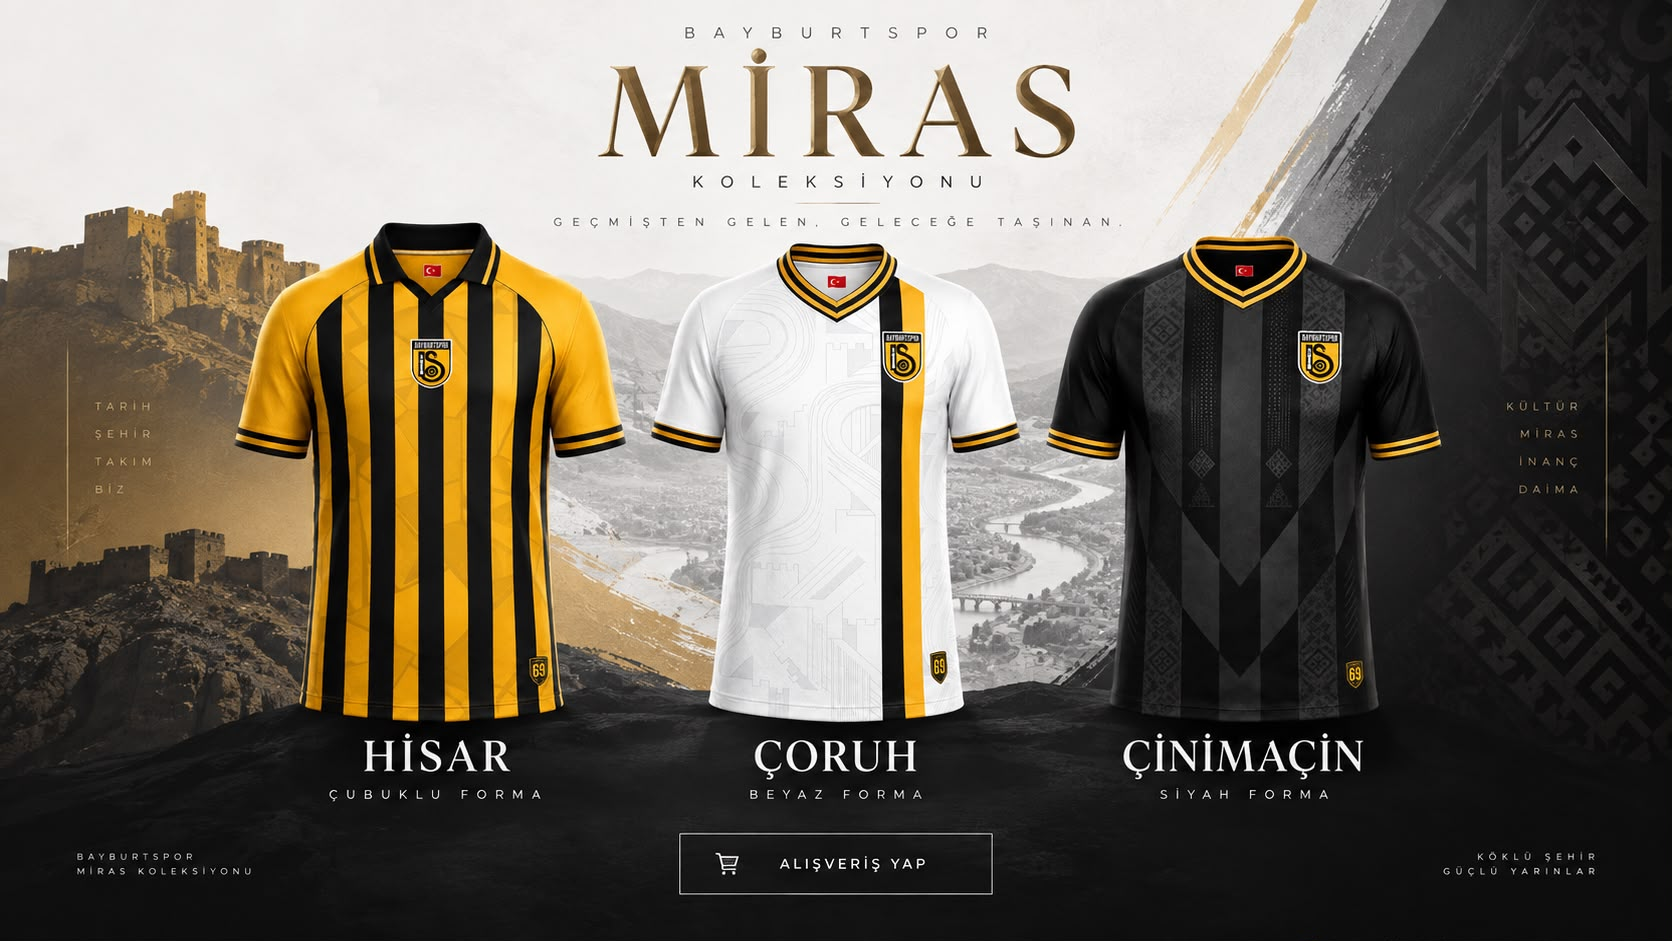
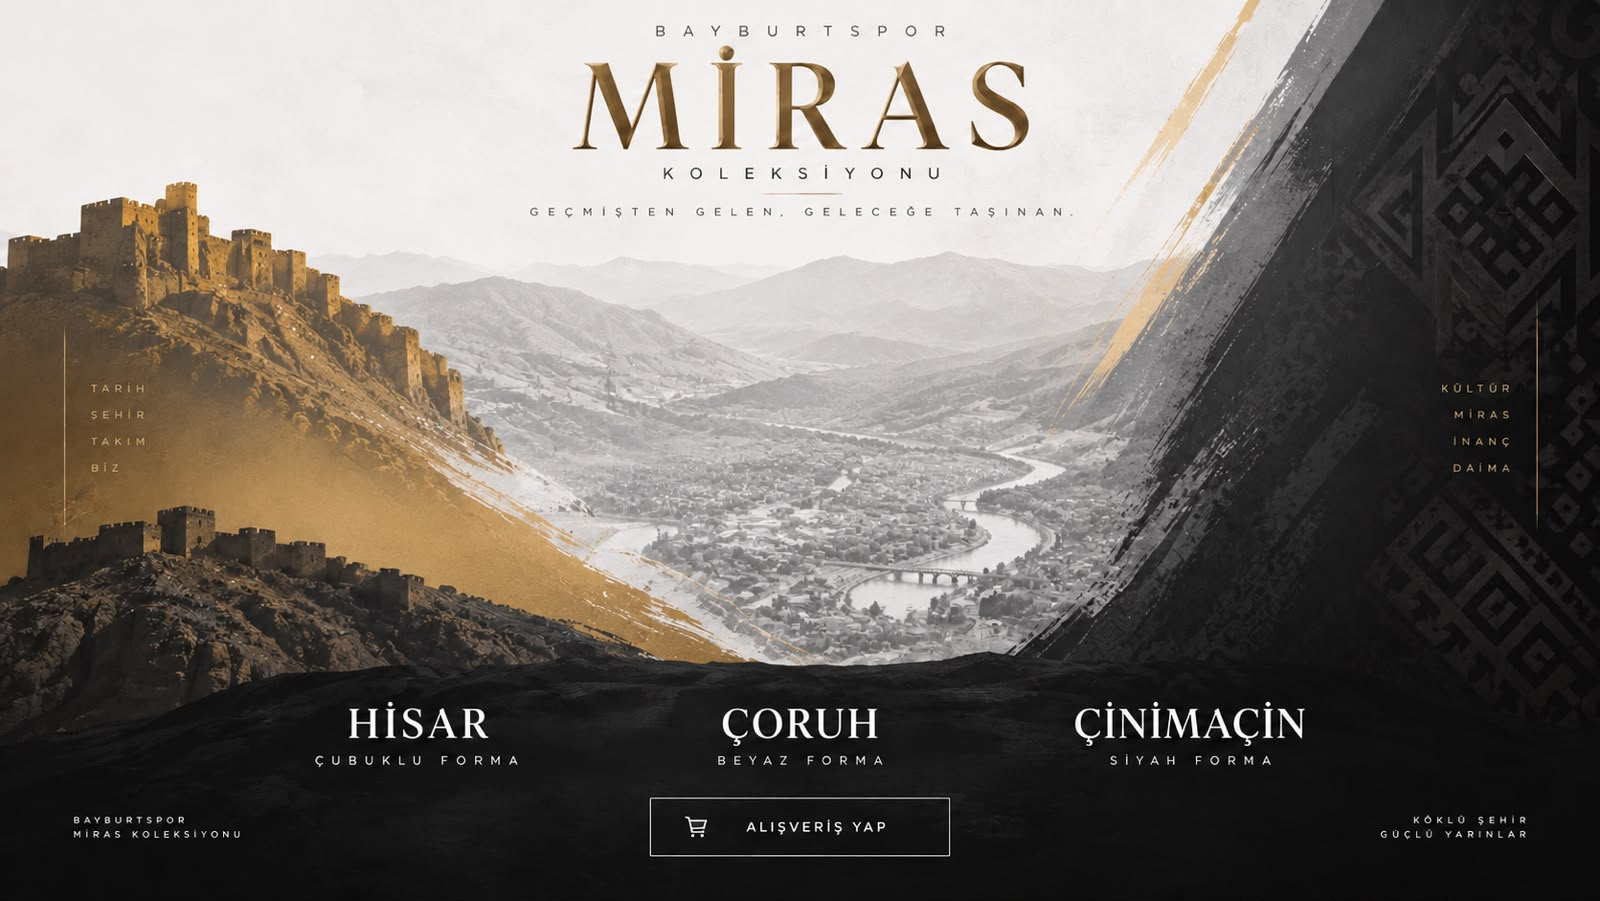
Stand the kits on the real backdrop (#10)
The homepage plate is now the kit-free artwork the brief calls for:
castle, valley, river, city and the patterned right edge, with nothing
painted in front of them. The three live kits are the only kits on the
page.

Where each one stands is measured, not guessed. media-source/
banner-placement.jpg is the same frame with the kits painted in; it is
kept as the placement reference and never used as a background. Matching
the cut-out photographs against it gives each kit its own centre and
height — the middle one set very slightly back, the way the artwork
stages it — so they land over their labels and clear of each other, and
the region veils on hover follow the same three positions.

The artwork also carries a shop button in its foot, and the page draws a
real one, so the painted one is lifted out at build time: the ground
under it is flat obsidian, refilled row by row from either side and
feathered back in.

Portrait was a castle down one edge, a tile motif down the other and a
black void between them. With the kits out of the backdrop the valley is
free to use, so it now sits behind the wordmark as depth, cropped clear
of the artwork's own typesetting, and the columns fade out above the
credit line instead of dragging half a word into frame.

Verified: build, lint and tsc clean; all eight routes 200; 15/15
interaction checks over three runs with no console errors or failed
requests; desktop hover lifts the kit and its region; mobile tap opens
the product page.
[…]

diff --git a/bayburt-store/components/hero/KitStage3D.tsx b/bayburt-store/components/hero/KitStage3D.tsx
@@ -28,14 +28,23 @@ interface KitNode {
 const KIT_ASPECT = 0.91
 
 /**
- * Where the kits sit inside the campaign banner, as fractions of the plate.
- * The live kits are laid over the ones baked into it, so on desktop the
- * layout is derived from the plate's cover box rather than from the viewport.
+ * Where the kits stand inside the backdrop, as fractions of the plate.
+ *
+ * The plate itself has no kits in it. These numbers come from
+ * media-source/banner-placement.jpg — the same frame with the kits painted in
+ * — matched against the cut-out photographs, so each kit lands on its own
+ * ground: over its label, clear of its neighbours, the middle one set very
+ * slightly back the way the artwork stages it. Desktop derives the layout
+ * from the plate's cover box rather than from the viewport, so the kits stay
+ * on that ground at every window size.
  */
-const PLATE_ASPECT = 1672 / 941
-const PLATE_KIT_X = [0.256, 0.501, 0.745]
-const PLATE_KIT_Y = 0.512
-const PLATE_KIT_H = 0.60
+const PLATE_ASPECT = 1600 / 901
+const PLATE_KIT_Y = 0.511
+const PLATE_KIT = [
+  { x: 0.276, height: 0.570 },
+  { x: 0.516, height: 0.525 },
+  { x: 0.764, height: 0.573 },
+]
 
 /** Rim light per kit: gold for Hisar, daylight for Çoruh, warm gold for Çinimaçın. */
 const RIM_COLOURS = [0xffb422, 0xf2f6ff, 0xd4af37]
@@ -46,9 +55,9 @@ const RIM_COLOURS = [0xffb422, 0xf2f6ff, 0xd4af37]
  * the region it belongs to and lets the other two fall back.
  */
 const REGIONS = [
-  { left: '0%', width: '35%', lift: 'rgba(233,162,28,0.22)' },
-  { left: '33%', width: '34%', lift: 'rgba(228,238,255,0.20)' },
-  { left: '65%', width: '35%', lift: 'rgba(212,175,55,0.16)' },
+  { left: '0%', width: '40%', lift: 'rgba(233,162,28,0.22)' },
+  { left: '38%', width: '28%', lift: 'rgba(228,238,255,0.20)' },
+  { left: '64%', width: '36%', lift: 'rgba(212,175,55,0.16)' },
 ]
 
 export function KitStage3D({ products, onUnsupported }: KitStage3DProps) {
@@ -129,7 +138,7 @@ export function KitStage3D({ products, onUnsupported }: KitStage3DProps) {
       scale: 1,
       gap: 1,
       portrait: false,
-      slots: [] as { x: number; y: number }[],
+      slots: [] as { x: number; y: number; scale: number }[],
     }
 
     function measure() {
@@ -147,16 +156,17 @@ export function KitStage3D({ products, onUnsupported }: KitStage3DProps) {
       const plateLeft = (clientWidth - plateWidth) / 2
       const plateTop = (clientHeight - plateHeight) / 2
 
+      const slots = PLATE_KIT.map((kit) => ({
+        x: (plateLeft + kit.x * plateWidth - clientWidth / 2) * worldPerPixel,
+        y: (clientHeight / 2 - (plateTop + PLATE_KIT_Y * plateHeight)) * worldPerPixel,
+        scale: kit.height * plateHeight * worldPerPixel,
+      }))
+
       // Portrait crops the plate too hard to align to; it shows one kit at a
-      // time and slides instead.
+      // time and slides instead, so there it is one size for all three.
       const scale = portrait
         ? Math.min(visibleWidth * 0.96, visibleHeight * 0.62)
-        : PLATE_KIT_H * plateHeight * worldPerPixel
-
-      const slots = PLATE_KIT_X.map((fraction) => ({
-        x: (plateLeft + fraction * plateWidth - clientWidth / 2) * worldPerPixel,
-        y: (clientHeight / 2 - (plateTop + PLATE_KIT_Y * plateHeight)) * worldPerPixel,
-      }))
+        : (slots[0]?.scale ?? 1)
 
       layout = { scale, gap: scale * KIT_ASPECT * 1.25, portrait, slots }
       setIsPortrait(portrait)
@@ -171,7 +181,7 @@ export function KitStage3D({ products, onUnsupported }: KitStage3DProps) {
           ? (node.index - focusRef.current) * layout.gap
           : (slot?.x ?? 0)
         node.group.position.y = layout.portrait ? 0 : (slot?.y ?? 0)
-        node.group.scale.setScalar(layout.scale)
+        node.group.scale.setScalar(layout.portrait ? layout.scale : (slot?.scale ?? layout.scale))
       })
     }
 
@@ -335,7 +345,11 @@ export function KitStage3D({ products, onUnsupported }: KitStage3DProps) {
 
         const isFocused = layout.portrait ? node.index === focusRef.current : isActive
         const targetRotation = isFocused ? sway * 0.25 : sway
-        const targetScale = layout.scale * (isFocused ? 1.06 : layout.portrait ? 0.82 : 0.97)
+        // At rest a kit is exactly the size the artwork gives it; the lift on
+        // hover is small because the step forward and the region light behind
+        // it carry most of the emphasis.
+        const base = layout.portrait ? layout.scale : (layout.slots[node.index]?.scale ?? layout.scale)
+        const targetScale = base * (isFocused ? 1.04 : layout.portrait ? 0.82 : 1)
         const targetZ = isFocused ? (layout.portrait ? 0.2 : 0.55) : 0
 
         node.group.rotation.y += (targetRotation - node.group.rotation.y) * 0.06
